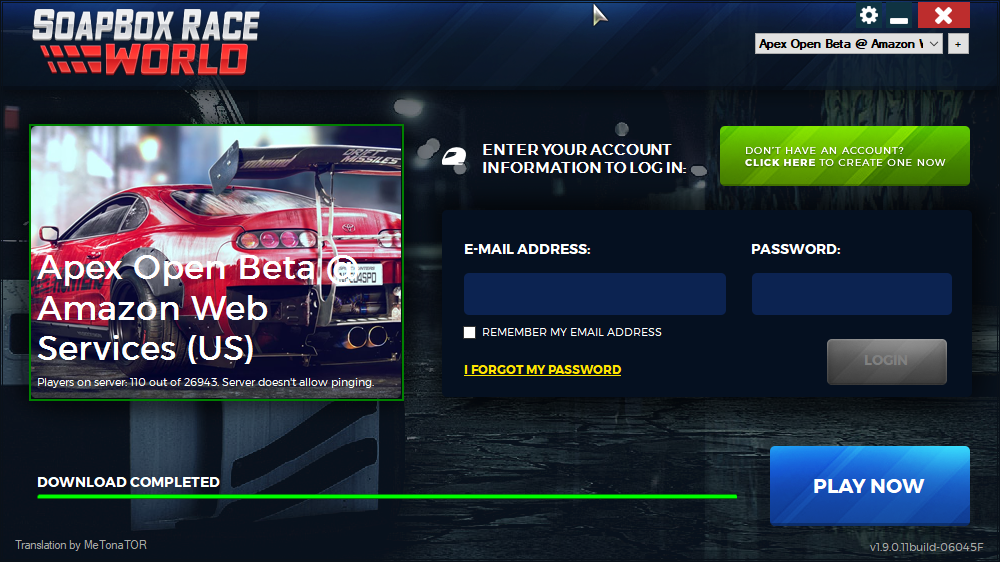
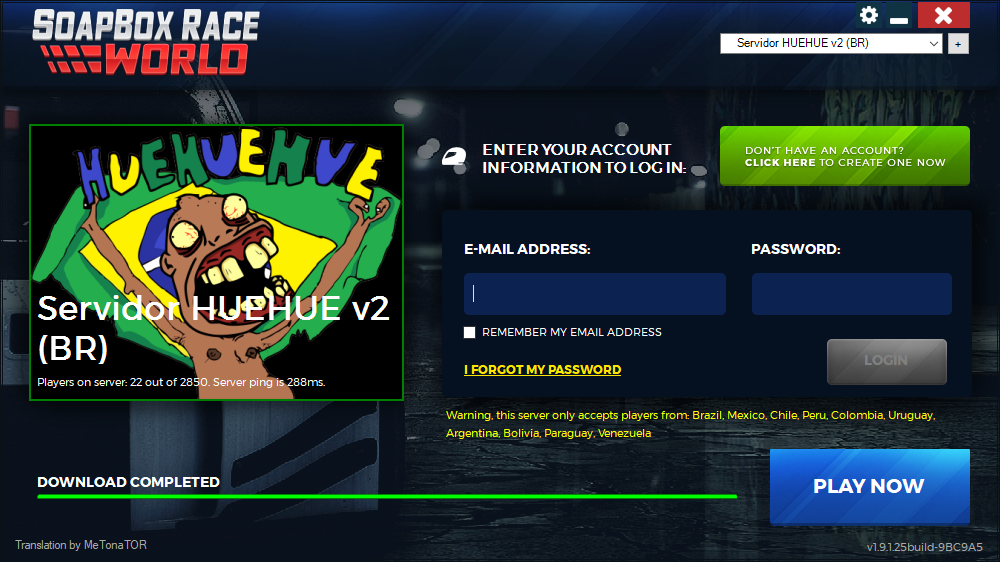
Fixed allowed countries

diff --git a/GameLauncher/App/Form1.Designer.cs b/GameLauncher/App/Form1.Designer.cs
@@ -74,7 +74,6 @@
             this.settingsLanguageDesc = new System.Windows.Forms.Label();
             this.settingsUILang = new System.Windows.Forms.ComboBox();
             this.settingsUILangText = new System.Windows.Forms.Label();
-            this.settingsUILangDesc = new System.Windows.Forms.Label();
             this.moreLanguages = new System.Windows.Forms.LinkLabel();
             this.pictureBox1 = new System.Windows.Forms.PictureBox();
             this.translatedBy = new System.Windows.Forms.Label();
@@ -92,6 +91,7 @@
             this.legacyLaunch = new System.Windows.Forms.CheckBox();
             this.allowedCountriesLabel = new System.Windows.Forms.Label();
             this.playProgress = new GameLauncherReborn.ProgressBarEx();
+            this.settingsUILangDesc = new System.Windows.Forms.Label();
             ((System.ComponentModel.ISupportInitialize)(this.closebtn)).BeginInit();
             ((System.ComponentModel.ISupportInitialize)(this.minimizebtn)).BeginInit();
             ((System.ComponentModel.ISupportInitialize)(this.registerText)).BeginInit();
@@ -622,17 +622,6 @@
             this.settingsUILangText.TabIndex = 49;
             this.settingsUILangText.Text = "LAUNCHER LANGUAGE:";
             // 
-            // settingsUILangDesc
-            // 
-            this.settingsUILangDesc.BackColor = System.Drawing.Color.Transparent;
-            this.settingsUILangDesc.ForeColor = System.Drawing.Color.White;
-            this.settingsUILangDesc.Location = new System.Drawing.Point(296, 332);
-            this.settingsUILangDesc.Name = "settingsUILangDesc";
-            this.settingsUILangDesc.Size = new System.Drawing.Size(427, 56);
-            this.settingsUILangDesc.TabIndex = 51;
-            this.settingsUILangDesc.Text = "Select the launcher language that the game text and audio should be displayed in." +
-    " Remember to restart your launcher.";
-            // 
             // moreLanguages
             // 
             this.moreLanguages.ActiveLinkColor = System.Drawing.Color.FromArgb(((int)(((byte)(224)))), ((int)(((byte)(224)))), ((int)(((byte)(224)))));
@@ -812,12 +801,11 @@
             // 
             // allowedCountriesLabel
             // 
-            this.allowedCountriesLabel.AutoSize = true;
             this.allowedCountriesLabel.BackColor = System.Drawing.Color.Transparent;
             this.allowedCountriesLabel.ForeColor = System.Drawing.Color.Yellow;
-            this.allowedCountriesLabel.Location = new System.Drawing.Point(461, 406);
+            this.allowedCountriesLabel.Location = new System.Drawing.Point(443, 406);
             this.allowedCountriesLabel.Name = "allowedCountriesLabel";
-            this.allowedCountriesLabel.Size = new System.Drawing.Size(0, 13);
+            this.allowedCountriesLabel.Size = new System.Drawing.Size(527, 43);
             this.allowedCountriesLabel.TabIndex = 76;
             // 
             // playProgress
@@ -831,6 +819,17 @@
             this.playProgress.Name = "playProgress";
             this.playProgress.Size = new System.Drawing.Size(700, 5);
             this.playProgress.Text = "downloadProgress";
+            // 
+            // settingsUILangDesc
+            // 
+            this.settingsUILangDesc.BackColor = System.Drawing.Color.Transparent;
+            this.settingsUILangDesc.ForeColor = System.Drawing.Color.White;
+            this.settingsUILangDesc.Location = new System.Drawing.Point(296, 332);
+            this.settingsUILangDesc.Name = "settingsUILangDesc";
+            this.settingsUILangDesc.Size = new System.Drawing.Size(427, 56);
+            this.settingsUILangDesc.TabIndex = 51;
+            this.settingsUILangDesc.Text = "Select the launcher language that the game text and audio should be displayed in." +
+    " Remember to restart your launcher.";
             // 
             // mainScreen
             // 
@@ -965,7 +964,6 @@
         private System.Windows.Forms.Label welcomeBack;
         private System.Windows.Forms.ComboBox settingsUILang;
         private System.Windows.Forms.Label settingsUILangText;
-        private System.Windows.Forms.Label settingsUILangDesc;
         private System.Windows.Forms.LinkLabel moreLanguages;
         private System.Windows.Forms.PictureBox pictureBox1;
         private System.Windows.Forms.Label translatedBy;
@@ -982,5 +980,6 @@
         private System.Windows.Forms.Button inputeditor;
         private System.Windows.Forms.CheckBox legacyLaunch;
         private System.Windows.Forms.Label allowedCountriesLabel;
+        private System.Windows.Forms.Label settingsUILangDesc;
     }
 }

diff --git a/GameLauncher/App/Form1.cs b/GameLauncher/App/Form1.cs
@@ -22,6 +22,8 @@ using Microsoft.Win32;
 using GameLauncher.App;
 using GameLauncher.HashPassword;
 using System.Linq;
+using System.Net.Sockets;
+using System.Drawing.Drawing2D;
 
 namespace GameLauncher {
     public partial class mainScreen : Form {
@@ -917,11 +919,13 @@ namespace GameLauncher {
             long artificialPingStart = Self.getTimestamp();
 
             allowedCountriesLabel.Text = "";
+            verticalBanner.BackColor = Color.Transparent;
 
             Uri StringToUri = new Uri(serverIP + "/GetServerInformation");
             client.DownloadStringAsync(StringToUri);
             client.DownloadStringCompleted += (sender2, e2) => {
                 //serverPick.Enabled = true;
+
 
                 long artificialPingEnd = Self.getTimestamp();
 
@@ -983,7 +987,16 @@ namespace GameLauncher {
                             }
 
                             if(!String.IsNullOrEmpty(json.allowedCountries)) {
-                                allowedCountriesLabel.Text = String.Format(Language.getLangString("MAIN_ALLOWEDCOUNTRIES", UILanguage), json.allowedCountries);
+                                List<Object> countries = new List<Object>();
+                                String[] splitted = json.allowedCountries.Split(';');
+
+                                foreach(String splitter in splitted) {
+                                    countries.Add(Self.CountryName(splitter));
+                                }
+
+                                String allowed = String.Join(", ", countries);
+
+                                allowedCountriesLabel.Text = String.Format(Language.getLangString("MAIN_ALLOWEDCOUNTRIES", UILanguage), allowed);
                             } else {
                                 allowedCountriesLabel.Text = "";
                             }
@@ -1030,6 +1043,7 @@ namespace GameLauncher {
                                     MemoryStream memoryStream = new MemoryStream(e4.Result);
                                     image = Image.FromStream(memoryStream);
                                     verticalBanner.Image = image;
+                                    verticalBanner.BackColor = Color.Black;
                                 } catch {
                                     verticalBanner.Image = null;
                                 }

diff --git a/GameLauncher/App/Classes/Self.cs b/GameLauncher/App/Classes/Self.cs
@@ -1,6 +1,7 @@
 using System;
 using System.Collections.Generic;
 using System.Diagnostics;
+using System.Globalization;
 using System.Text;
 using System.Windows.Forms;
 
@@ -26,16 +27,20 @@ namespace GameLauncherReborn {
         }
 
         public static void Restart(string param = "") {
-            ProcessStartInfo startInfo = Process.GetCurrentProcess().StartInfo;
-            startInfo.FileName = Application.ExecutablePath;
+            Application.Restart();
+        }
 
-            if(!String.IsNullOrEmpty(param)) {
-                startInfo.Arguments = param;
+        public static string CountryName(string twoLetterCountryCode) {
+            CultureInfo[] cultures = CultureInfo.GetCultures(CultureTypes.SpecificCultures);
+
+            foreach (CultureInfo culture in cultures) {
+                RegionInfo region = new RegionInfo(culture.LCID);
+                if (region.TwoLetterISORegionName.ToUpper() == twoLetterCountryCode.ToUpper()) {
+                    return region.EnglishName;
+                }
             }
 
-            var exit = typeof(Application).GetMethod("ExitInternal", System.Reflection.BindingFlags.NonPublic | System.Reflection.BindingFlags.Static);
-            exit.Invoke(null, null);
-            Process.Start(startInfo);
+            return String.Empty;
         }
 
         public static long getTimestamp(bool valid = false) {

diff --git a/GameLauncher/Properties/AssemblyInfo.cs b/GameLauncher/Properties/AssemblyInfo.cs
@@ -32,5 +32,5 @@ using System.Runtime.InteropServices;
 // Możesz określić wszystkie wartości lub użyć domyślnych numerów kompilacji i poprawki
 // przy użyciu symbolu „*”, tak jak pokazano poniżej:
 // [assembly: AssemblyVersion("1.0.*")]
-[assembly: AssemblyVersion("1.9.1.24")]
-[assembly: AssemblyFileVersion("1.9.1.24")]
+[assembly: AssemblyVersion("1.9.1.25")]
+[assembly: AssemblyFileVersion("1.9.1.25")]

diff --git a/README.md b/README.md
@@ -10,4 +10,4 @@ A Rewrite of GameLauncher taken from Need For Speed: World
 ### Screenshot
 ![](screenshot.png)
 
-(Status as of `09.06.2017 01:45 GMT+2`)
+(Status as of `03.05.2018 5:25 GMT+2`)
